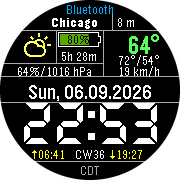
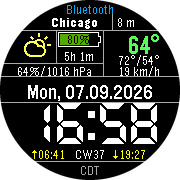
Sunset time flush right, arrows placed next to their times
The sunset time is right-aligned with its rect ending at the margin that
mirrors the sunrise arrow on the left, on every platform. Because the
times are fixed in characters but not in pixels, the sunset arrow's x is
measured from the rendered text width on each update; both sun arrows
are now drawn by the status layer next to their times instead of at
fixed points on the background.

Store screenshots and the README round copies regenerated; the probe
build used for them no longer shows the failed-fetch marker the
emulator's phone side triggers.

diff --git a/src/c/ui/layers/status_layer.c b/src/c/ui/layers/status_layer.c
@@ -17,6 +17,7 @@ struct StatusLayer {
     TextLayer* connection_layer;
     TextLayer* sunrise_layer;
     TextLayer* sunset_layer;
+    Layer* sun_arrows_layer;   // The up/down arrows, kept next to their times
     TextLayer* timezone_layer;
     // Text buffers (moved from function-static for memory safety)
     char batt_buf[24];
@@ -52,6 +53,45 @@ struct StatusLayer {
 #define STATUS_MEDIUM_FONT FONT_KEY_GOTHIC_18
 #endif
 #define STATUS_BATTERY_TIME_FONT FONT_KEY_GOTHIC_14
+
+// Gap between an arrow's stem and the first / last glyph of its time
+#define SUN_ARROW_GAP 4
+
+typedef struct {
+    int16_t sunrise_x;
+    int16_t sunset_x;
+    int16_t top_y;
+    int16_t bottom_y;
+    GColor color;
+} SunArrows;
+
+static void sun_arrows_update_proc(Layer* layer, GContext* ctx) {
+    SunArrows* a = (SunArrows*)layer_get_data(layer);
+    graphics_context_set_stroke_color(ctx, a->color);
+    // Sunrise: arrow pointing up
+    graphics_draw_line(ctx, GPoint(a->sunrise_x, a->top_y), GPoint(a->sunrise_x, a->bottom_y));
+    graphics_draw_line(ctx, GPoint(a->sunrise_x - 1, a->top_y + 1), GPoint(a->sunrise_x + 1, a->top_y + 1));
+    graphics_draw_line(ctx, GPoint(a->sunrise_x - 2, a->top_y + 2), GPoint(a->sunrise_x + 2, a->top_y + 2));
+    // Sunset: arrow pointing down
+    graphics_draw_line(ctx, GPoint(a->sunset_x, a->top_y), GPoint(a->sunset_x, a->bottom_y));
+    graphics_draw_line(ctx, GPoint(a->sunset_x - 1, a->bottom_y - 1), GPoint(a->sunset_x + 1, a->bottom_y - 1));
+    graphics_draw_line(ctx, GPoint(a->sunset_x - 2, a->bottom_y - 2), GPoint(a->sunset_x + 2, a->bottom_y - 2));
+}
+
+// The sunset time is right-aligned, so its arrow is placed from the measured
+// width of the text; the sunrise arrow sits a fixed gap before its left-aligned text.
+static void status_layer_place_sun_arrows(StatusLayer* sl) {
+    SunArrows* a = (SunArrows*)layer_get_data(sl->sun_arrows_layer);
+    GRect rise = layout_get_rect(LAYOUT_SUNRISE);
+    GRect set = layout_get_rect(LAYOUT_SUNSET);
+    GSize set_size = graphics_text_layout_get_content_size(sl->set_buf, fonts_get_system_font(STATUS_SMALL_FONT),
+        GRect(0, 0, set.size.w, set.size.h), GTextOverflowModeTrailingEllipsis, GTextAlignmentRight);
+    a->sunrise_x = rise.origin.x - SUN_ARROW_GAP;
+    a->sunset_x = set.origin.x + set.size.w - set_size.w - SUN_ARROW_GAP;
+    a->top_y = layout_get_sunrise_arrow_top().y;
+    a->bottom_y = layout_get_sunrise_arrow_bottom().y;
+    layer_mark_dirty(sl->sun_arrows_layer);
+}
 
 #if defined(PBL_HEALTH)
 static void health_trend_update_proc(Layer* layer, GContext* ctx) {
@@ -149,10 +189,17 @@ StatusLayer* status_layer_create(GRect frame) {
 
     sl->sunrise_layer = create_text_layer(layout_get_rect(LAYOUT_SUNRISE), STATUS_SMALL_FONT, GTextAlignmentLeft, GColorWhite);
 
-    sl->sunset_layer = create_text_layer(layout_get_rect(LAYOUT_SUNSET), STATUS_SMALL_FONT, GTextAlignmentLeft, GColorWhite);
+    // Sunset is flush right so the row mirrors the sunrise on the left.
+    sl->sunset_layer = create_text_layer(layout_get_rect(LAYOUT_SUNSET), STATUS_SMALL_FONT, GTextAlignmentRight, GColorWhite);
     sl->timezone_layer = create_text_layer(layout_get_rect(LAYOUT_TIMEZONE), STATUS_MEDIUM_FONT,
                                            PBL_IF_ROUND_ELSE(GTextAlignmentCenter, GTextAlignmentLeft), GColorWhite);
     
+    sl->sun_arrows_layer = layer_create_with_data(frame, sizeof(SunArrows));
+    SunArrows* arrows = (SunArrows*)layer_get_data(sl->sun_arrows_layer);
+    *arrows = (SunArrows){ .color = GColorWhite };
+    layer_set_update_proc(sl->sun_arrows_layer, sun_arrows_update_proc);
+    layer_add_child(sl->root_layer, sl->sun_arrows_layer);
+
     layer_add_child(sl->root_layer, text_layer_get_layer(sl->battery_layer));
     layer_add_child(sl->root_layer, text_layer_get_layer(sl->battery_fill_layer));
     layer_add_child(sl->root_layer, text_layer_get_layer(sl->battery_time_layer));
@@ -187,6 +234,7 @@ void status_layer_destroy(StatusLayer* sl) {
     text_layer_destroy(sl->connection_layer);
     text_layer_destroy(sl->sunrise_layer);
     text_layer_destroy(sl->sunset_layer);
+    layer_destroy(sl->sun_arrows_layer);
     text_layer_destroy(sl->timezone_layer);
 #if defined(PBL_HEALTH)
     text_layer_destroy(sl->health_text_layer);
@@ -268,6 +316,7 @@ void status_layer_update(StatusLayer* sl) {
     
     text_layer_set_text(sl->sunrise_layer, sl->rise_buf);
     text_layer_set_text(sl->sunset_layer, sl->set_buf);
+    status_layer_place_sun_arrows(sl);
     
     // Timezone or Health info
     // HealthInfo: 0=Off, 1=Steps/Sleep auto, 3=Steps, 4=Sleep, 5=Timezone
@@ -361,6 +410,8 @@ void status_layer_update_colors(StatusLayer* sl) {
     
     text_layer_set_text_color(sl->sunrise_layer, scheme->sun);
     text_layer_set_text_color(sl->sunset_layer, scheme->sun);
+    ((SunArrows*)layer_get_data(sl->sun_arrows_layer))->color = scheme->sun;
+    layer_mark_dirty(sl->sun_arrows_layer);
     text_layer_set_text_color(sl->timezone_layer, scheme->timezone);
 
     BatteryPalette battery_palette;

diff --git a/src/c/ui/layout.c b/src/c/ui/layout.c
@@ -47,7 +47,7 @@ static const GRect s_rects[LAYOUT_COUNT] = {
     [LAYOUT_BATTERY_BOX]         = { .origin = {71, 26},  .size = {44, 18} },
     [LAYOUT_CONNECTION]          = { .origin = {65, 206}, .size = {70, 22} },
     [LAYOUT_SUNRISE]             = { .origin = {10, 206}, .size = {70, 22} },
-    [LAYOUT_SUNSET]              = { .origin = {152, 206},.size = {46, 22} },
+    [LAYOUT_SUNSET]              = { .origin = {150, 206},.size = {46, 22} },  // Right-aligned, ends 4px from the edge
     [LAYOUT_TIMEZONE]            = { .origin = {7, 179},  .size = {140, 27} },
     [LAYOUT_HEALTH_ICON]         = { .origin = {0, 186},  .size = {21, 19} },
     [LAYOUT_HEALTH_TEXT]         = { .origin = {33, 179}, .size = {140, 27} },
@@ -80,7 +80,6 @@ static const int16_t s_lines[LINE_COUNT] = {
 static const GRect s_batt_fill = { .origin = {73, 28}, .size = {0, 14} };
 
 static const int16_t s_sunrise_arrow_x = 4;
-static const int16_t s_sunset_arrow_x = 147;
 static const int16_t s_sun_arrow_top_y = 213;
 static const int16_t s_sun_arrow_bottom_y = 224;
 
@@ -116,7 +115,7 @@ static const GRect s_rects[LAYOUT_COUNT] = {
     [LAYOUT_BATTERY_BOX]         = { .origin = {90, 54},  .size = {44, 18} },
     [LAYOUT_CONNECTION]          = { .origin = {60, 3},   .size = {140, 22} },
     [LAYOUT_SUNRISE]             = { .origin = {52, 209}, .size = {50, 22} },
-    [LAYOUT_SUNSET]              = { .origin = {164, 209},.size = {50, 22} },
+    [LAYOUT_SUNSET]              = { .origin = {162, 209},.size = {50, 22} },  // Right-aligned, mirrors the sunrise margin
     [LAYOUT_TIMEZONE]            = { .origin = {55, 233}, .size = {150, 22} },
     [LAYOUT_HEALTH_ICON]         = { .origin = {92, 237}, .size = {15, 14} },
     [LAYOUT_HEALTH_TEXT]         = { .origin = {111, 233},.size = {60, 22} },
@@ -149,7 +148,6 @@ static const int16_t s_lines[LINE_COUNT] = {
 static const GRect s_batt_fill = { .origin = {92, 56}, .size = {0, 14} };
 
 static const int16_t s_sunrise_arrow_x = 48;
-static const int16_t s_sunset_arrow_x = 160;
 static const int16_t s_sun_arrow_top_y = 216;
 static const int16_t s_sun_arrow_bottom_y = 227;
 
@@ -186,7 +184,7 @@ static const GRect s_rects[LAYOUT_COUNT] = {
     [LAYOUT_BATTERY_BOX]         = { .origin = {58, 32},  .size = {42, 15} },  // Same size as the original MSS7 art
     [LAYOUT_CONNECTION]          = { .origin = {40, 0},   .size = {100, 16} },
     [LAYOUT_SUNRISE]             = { .origin = {38, 145}, .size = {34, 16} },
-    [LAYOUT_SUNSET]              = { .origin = {116, 145},.size = {34, 16} },
+    [LAYOUT_SUNSET]              = { .origin = {113, 145},.size = {33, 16} },  // Right-aligned, mirrors the sunrise margin
     [LAYOUT_TIMEZONE]            = { .origin = {45, 161}, .size = {90, 16} },
     [LAYOUT_HEALTH_ICON]         = { .origin = {62, 162}, .size = {15, 14} },
     [LAYOUT_HEALTH_TEXT]         = { .origin = {79, 161}, .size = {40, 16} },
@@ -219,7 +217,6 @@ static const int16_t s_lines[LINE_COUNT] = {
 static const GRect s_batt_fill = { .origin = {60, 34}, .size = {0, 11} };
 
 static const int16_t s_sunrise_arrow_x = 34;
-static const int16_t s_sunset_arrow_x = 112;
 static const int16_t s_sun_arrow_top_y = 150;
 static const int16_t s_sun_arrow_bottom_y = 158;
 
@@ -244,7 +241,7 @@ static const GRect s_rects[LAYOUT_COUNT] = {
     [LAYOUT_BATTERY_BOX]         = { .origin = {43, 19},  .size = {42, 15} },  // Same size as the original MSS7 art
     [LAYOUT_CONNECTION]          = { .origin = {44, 152}, .size = {56, 20} },
     [LAYOUT_SUNRISE]             = { .origin = {7, 152},  .size = {50, 16} },
-    [LAYOUT_SUNSET]              = { .origin = {110, 152},.size = {33, 16} },
+    [LAYOUT_SUNSET]              = { .origin = {104, 152},.size = {37, 16} },  // Right-aligned, mirrors the sunrise margin
     [LAYOUT_TIMEZONE]            = { .origin = {5, 132},  .size = {100, 20} },
     [LAYOUT_HEALTH_ICON]         = { .origin = {0, 137},  .size = {15, 14} },
     [LAYOUT_HEALTH_TEXT]         = { .origin = {24, 132}, .size = {100, 20} },
@@ -277,7 +274,6 @@ static const int16_t s_lines[LINE_COUNT] = {
 static const GRect s_batt_fill = { .origin = {45, 21}, .size = {0, 11} };
 
 static const int16_t s_sunrise_arrow_x = 3;
-static const int16_t s_sunset_arrow_x = 106;
 static const int16_t s_sun_arrow_top_y = 157;
 static const int16_t s_sun_arrow_bottom_y = 165;
 #endif
@@ -343,10 +339,3 @@ GPoint layout_get_sunrise_arrow_bottom(void) {
     return GPoint(s_layout.origin_x + s_sunrise_arrow_x, s_layout.origin_y + s_sun_arrow_bottom_y);
 }
 
-GPoint layout_get_sunset_arrow_top(void) {
-    return GPoint(s_layout.origin_x + s_sunset_arrow_x, s_layout.origin_y + s_sun_arrow_top_y);
-}
-
-GPoint layout_get_sunset_arrow_bottom(void) {
-    return GPoint(s_layout.origin_x + s_sunset_arrow_x, s_layout.origin_y + s_sun_arrow_bottom_y);
-}

diff --git a/src/c/ui/layers/background.c b/src/c/ui/layers/background.c
@@ -56,21 +56,7 @@ static void update_proc(Layer* layer, GContext* ctx) {
     graphics_fill_rect(ctx, layout_get_rect(LAYOUT_COLON_TOP), 0, GCornerNone);
     graphics_fill_rect(ctx, layout_get_rect(LAYOUT_COLON_BOTTOM), 0, GCornerNone);
 
-    // Sunrise/Sunset arrows using layout API
-    GPoint sunrise_top = layout_get_sunrise_arrow_top();
-    GPoint sunrise_bot = layout_get_sunrise_arrow_bottom();
-    GPoint sunset_top = layout_get_sunset_arrow_top();
-    GPoint sunset_bot = layout_get_sunset_arrow_bottom();
-    
-    graphics_context_set_stroke_color(ctx, scheme->sun);
-    // Sunrise arrow (pointing up)
-    graphics_draw_line(ctx, sunrise_top, sunrise_bot);
-    graphics_draw_line(ctx, GPoint(sunrise_top.x - 1, sunrise_top.y + 1), GPoint(sunrise_top.x + 1, sunrise_top.y + 1));
-    graphics_draw_line(ctx, GPoint(sunrise_top.x - 2, sunrise_top.y + 2), GPoint(sunrise_top.x + 2, sunrise_top.y + 2));
-    // Sunset arrow (pointing down)
-    graphics_draw_line(ctx, sunset_top, sunset_bot);
-    graphics_draw_line(ctx, GPoint(sunset_bot.x - 1, sunset_bot.y - 1), GPoint(sunset_bot.x + 1, sunset_bot.y - 1));
-    graphics_draw_line(ctx, GPoint(sunset_bot.x - 2, sunset_bot.y - 2), GPoint(sunset_bot.x + 2, sunset_bot.y - 2));
+    // Sunrise / sunset arrows are drawn by the status layer, next to their times.
 
     BatteryPalette battery_palette;
     battery_style_get_palette(settings, state->battery.charge_percent, &battery_palette);

diff --git a/src/c/ui/layout.h b/src/c/ui/layout.h
@@ -95,8 +95,7 @@ int16_t layout_get_line_coord(LineId id);
 // Get the battery fill rectangle. Width is 0..LAYOUT_BATTERY_FILL_MAX_W.
 GRect layout_get_battery_fill_rect(int16_t fill_width);
 
-// Get sun arrow points (sunrise/sunset indicators)
+// Sun arrow row: the sunrise arrow's x, and the top / bottom y shared by both
+// arrows. The sunset arrow's x is measured from its right-aligned text at runtime.
 GPoint layout_get_sunrise_arrow_top(void);
 GPoint layout_get_sunrise_arrow_bottom(void);
-GPoint layout_get_sunset_arrow_top(void);
-GPoint layout_get_sunset_arrow_bottom(void);
